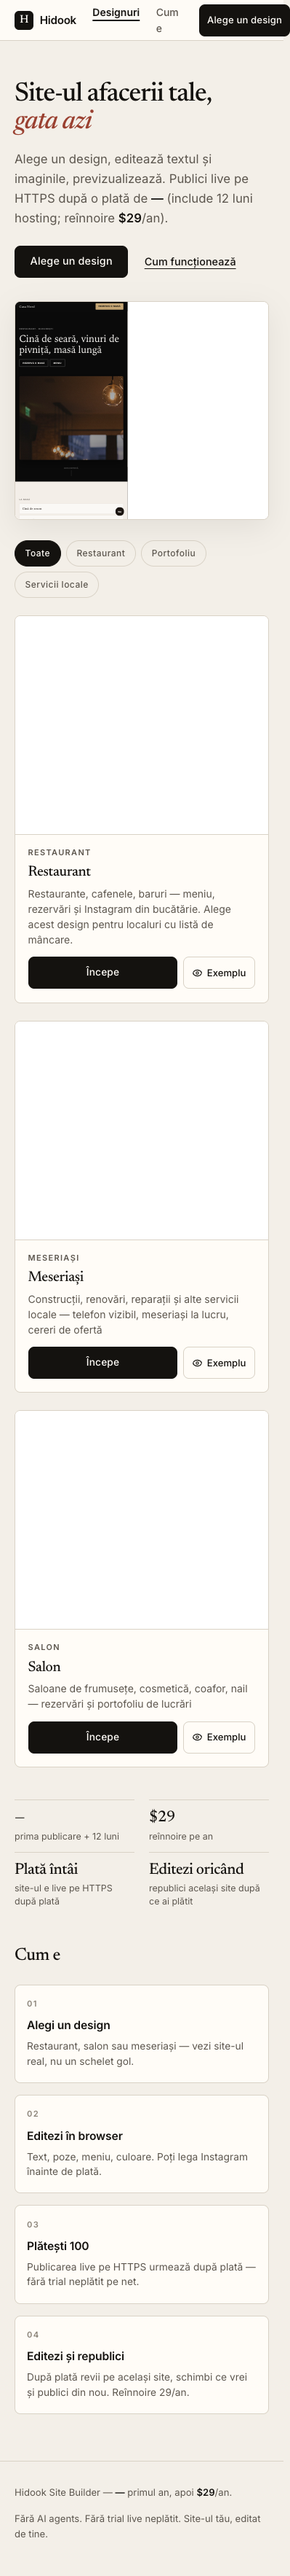
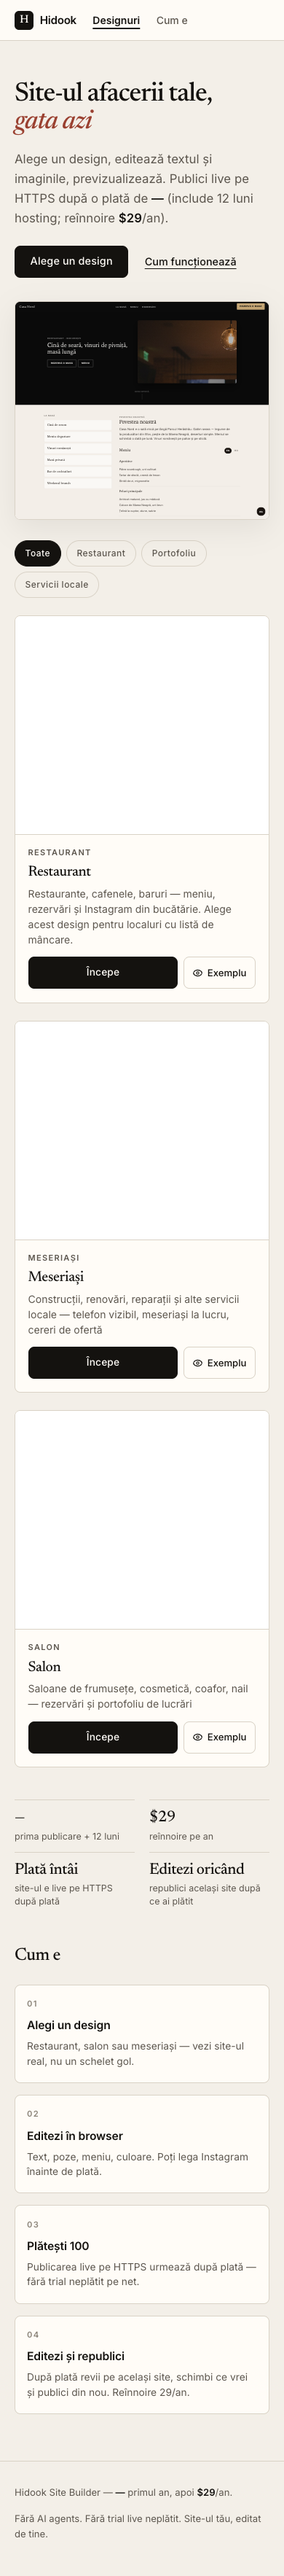
fix(S71): hide mobile header CTA via higher CSS specificity
.btn-primary display:inline-flex overrode .header-cta display:none at
narrow widths. Scope header CTA under .app-header so it stays none
below 640px and shows at desktop. Static verify + mobile capture gate.

diff --git a/scripts/s71-static-verify.js b/scripts/s71-static-verify.js
@@ -22,6 +22,9 @@ const metrics = {
   hasPopulateStage: js.includes('populateHeroStage'),
   hasCatalogFilter: js.includes('applyCatalogFilter'),
   editorOutlineForest: js.includes('#1E3A32'),
+  // Mobile header CTA must beat .btn-primary display (S71-fix)
+  headerCtaSpecificity: /\.app-header\s+(?:a\.)?header-cta[\s\S]{0,80}display:\s*none/.test(css)
+    && /@media\s*\(\s*min-width:\s*640px\s*\)[\s\S]{0,200}\.app-header\s+(?:a\.)?header-cta/.test(css),
 };
 const outDir = path.join(root, '04-QA-Evidence/S71-remake');
 fs.mkdirSync(outDir, { recursive: true });

diff --git a/builder/app.css b/builder/app.css
@@ -187,12 +187,17 @@ input, textarea, select {
   text-decoration-thickness: 1.5px;
 }
 
-.header-cta {
+/* Beat .btn-primary { display: inline-flex } (same single-class specificity, later in file) */
+.app-header a.header-cta,
+.app-header .header-cta {
   display: none;
   margin-left: 0.35rem;
 }
 @media (min-width: 640px) {
-  .header-cta { display: inline-flex; }
+  .app-header a.header-cta,
+  .app-header .header-cta {
+    display: inline-flex;
+  }
 }
 
 .header-right {

diff --git a/04-QA-Evidence/S71-remake/S71-fix-HEADER-CTA.md b/04-QA-Evidence/S71-remake/S71-fix-HEADER-CTA.md
@@ -1,0 +1,8 @@
+# S71-fix — mobile header CTA
+
+- Cause: `.btn-primary { display:inline-flex }` overrode `.header-cta { display:none }` (same specificity, later rule).
+- Fix: `.app-header a.header-cta` / `.app-header .header-cta` (higher specificity) → `display:none` default; `@media (min-width:640px)` → `inline-flex`.
+- Acceptance (Playwright getComputedStyle `#header-cta`):
+  - 390: `display === 'none'`
+  - 1440: not `none` (inline-flex)
+- Hero CTA remains visible on mobile; only mast `#header-cta` is hidden.
